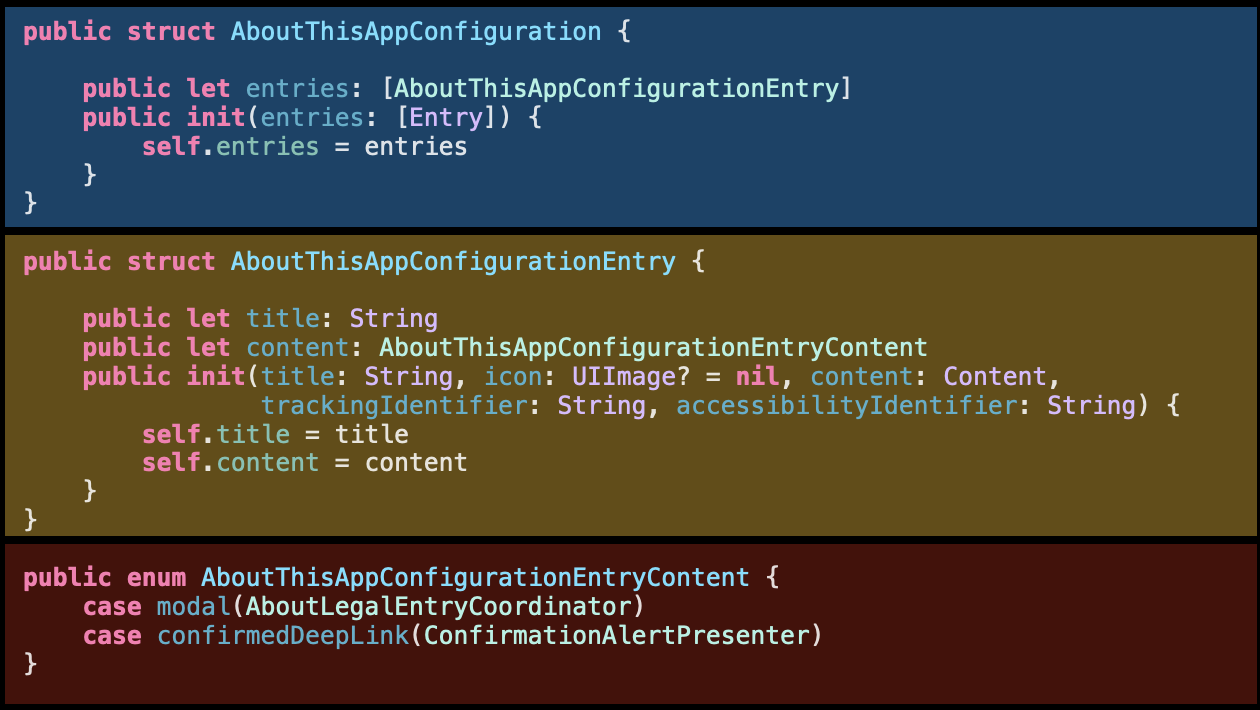
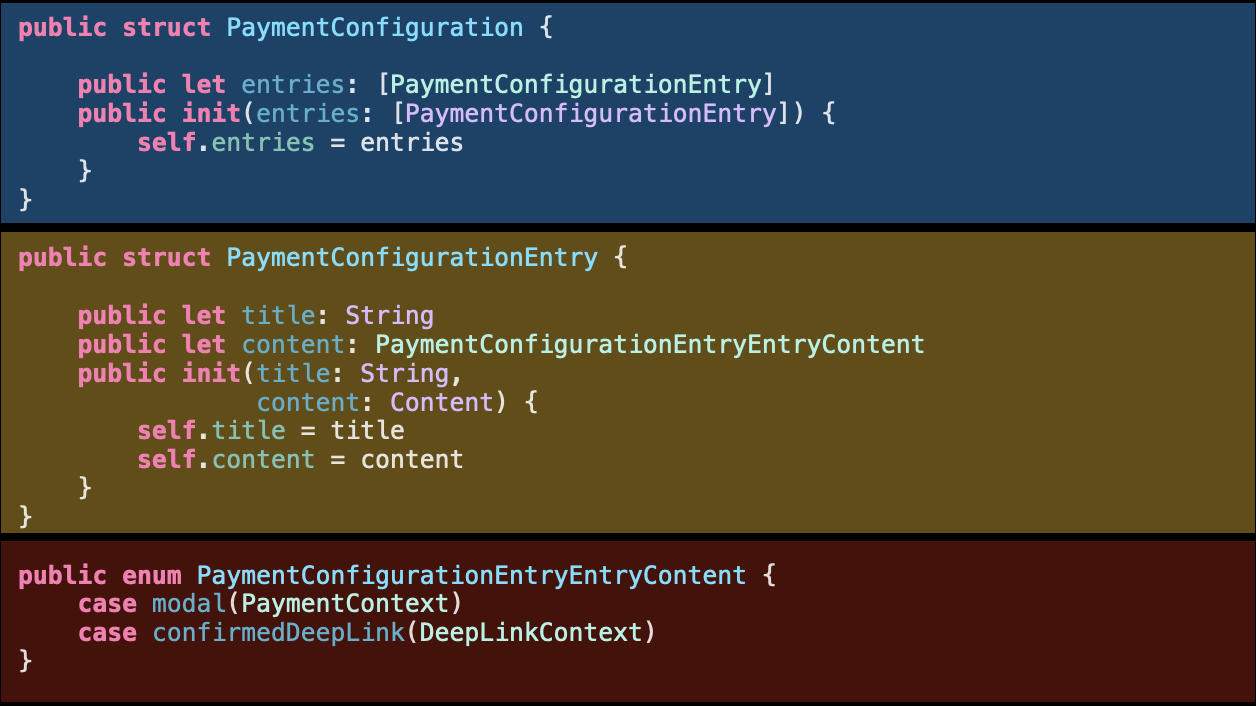
complexity-1 code samples corrected

diff --git a/_posts/2025-04-14-complexity-1-decisions-in-code.md b/_posts/2025-04-14-complexity-1-decisions-in-code.md
@@ -115,23 +115,23 @@ It's usually considered that when a function has more than two or three returns,
 ### Nesting level
 
 Nesting level is something we can fully control as developers.
-In the following example we have 3 levels of nested types: About This App Configuration, Entry, and Content.
+In the following example we have 3 levels of nested types: PaymentConfiguration, Entry, and Content.
 
 ```swift
-public struct AboutThisAppConfiguration {
+public struct PaymentConfiguration {
     
     public struct Entry {
         
         public enum Content {
-            case modal(AboutLegalEntryCoordinator)
-            case confirmedDeepLink(ConfirmationAlertPresenter)
+            case modal(PaymentContext)
+            case deepLink(DeepLinkContext)
         }
                 
         public let title: String
         public let content: Content
         
-        public init(title: String, icon: UIImage? = nil, content: Content,
-                    trackingIdentifier: String, accessibilityIdentifier: String) {
+        public init(title: String, 
+                    content: Content) {
             self.title = title
             self.content = content
         }
@@ -144,35 +144,35 @@ public struct AboutThisAppConfiguration {
     }
 }
 ```
-The cognitive load of such solution high as for each nested structure you need to keep the context of its parent (or even grandparent) in mind. You deal with the `Content`, but you will likely need to consider `Entry` and maybe even `AboutThisAppConfiguration` for the full context. The cognitive contexts of them overlap:
+The cognitive load of such solution high as for each nested structure you need to keep the context of its parent (or even grandparent) in mind. You deal with the `Content`, but you will likely need to consider `Entry` and maybe even `PaymentConfiguration` for the full context. The cognitive contexts of them overlap:
 
 ![](/images-posts/2025-04-14-complexity-1-decisions-in-code/context-overlap.png)
 
  So in this case it’s probably easier to split them into a separate data types, even if it looks more verbose in terms of naming.
 
 ```swift
-public struct AboutThisAppConfiguration {
+public struct PaymentConfiguration {
         
-    public let entries: [AboutThisAppConfigurationEntry]
-    public init(entries: [Entry]) {
+    public let entries: [PaymentConfigurationEntry]
+    public init(entries: [PaymentConfigurationEntry]) {
         self.entries = entries
     }
 }
 
-public struct AboutThisAppConfigurationEntry {
+public struct PaymentConfigurationEntry {
             
     public let title: String
-    public let content: AboutThisAppConfigurationEntryContent
-    public init(title: String, icon: UIImage? = nil, content: Content,
-                trackingIdentifier: String, accessibilityIdentifier: String) {
+    public let content: PaymentConfigurationEntryEntryContent
+    public init(title: String,
+                content: Content) {
         self.title = title
         self.content = content
     }
 }
 
-public enum AboutThisAppConfigurationEntryContent {
-    case modal(AboutLegalEntryCoordinator)
-    case confirmedDeepLink(ConfirmationAlertPresenter)
+public enum PaymentConfigurationEntryEntryContent {
+    case modal(PaymentContext)
+    case confirmedDeepLink(DeepLinkContext)
 }
 ```
 
@@ -194,8 +194,8 @@ public enum AccessibilityIdentifiers {
         
         public enum Legal {
             public static var view = "view"
-            public static var terms = "legalTermsconditionsEntry"
-            public static var copyrights = "legalCopyrightsEntry"
+            public static var terms = "legal"
+            public static var copyrights = "copyrights"
             
             public enum Copyrights {
                 public static var view = "view"
@@ -221,23 +221,23 @@ One way to address this is by grouping related parameters into meaningful data s
 _More complex:_
 
 ```swift
-public func trackFormStep(formId: String,
-                          formStep: String,
-                          formStatus: String,
-                          transactionId: String?,
-                          formOutcome: String?,
-                          formType: String?) {
+public func trackEvent(formId: String,
+                       formStep: String,
+                       formStatus: String,
+                       transactionId: String?,
+                       formOutcome: String?,
+                       formType: String?) {
     ...
 }
 ```
 _Less complex:_
 
 ```swift
-public func trackFormStep(content: FormStepTrackingContent) {
+public func trackEvent(content: EventContent) {
     ...
 }
     
-public struct FormStepTrackingContent: Equatable, Sendable {
+public struct EventContent: Equatable, Sendable {
     public let formId: String
     public let formStep: String
     public let formStatus: String
@@ -256,12 +256,11 @@ In other cases, if a function is doing too much and therefore needs too much con
 Complex conditions may be completely unreadable:
 
 ```swift
-if (featureToggles.toggle(for: .inAppReview) == .enabled &&
-    (numberOfLaunchesSinceLastPrompted >= 
-          configuration.minimumRequiredLaunches) ||
-    (dateProvider() >= nextPromptDate &&
-   applicationVersion != latestVersionPromptedForReview)) {
-    attemptToShowNativeRating(in: windowScene, completion: completion)
+if (yourFeatureToggleState == .enabled &&
+    (numberOfLaunches >= configuration.minimumRequiredLaunches) ||
+    (currentDate >= nextPromptDate &&
+    applicationVersion != latestVersionWithAlert)) {
+    attemptToShowAlert(in: window, completion: completion)
 }
 ```
 
@@ -269,11 +268,10 @@ A better approach: break them into logical steps, assign parts to descriptive bo
 
 
 ```swift
-let featureIsActive = featureToggles.toggle(for: .inAppReview) == .enabled
-let enoughLaunches = numberOfLaunchesSinceLastPrompted >= 
-configuration.minimumRequiredLaunches
-let dateVersionConditionMet = (dateProvider() >= nextPromptDate && 
-applicationVersion != latestVersionPromptedForReview)
+let featureIsActive = yourFeatureToggleState == .enabled
+let enoughLaunches = numberOfLaunches >= configuration.minimumRequiredLaunches
+let dateVersionConditionMet = (currentDate >= nextPromptDate &&
+    applicationVersion != latestVersionWithAlert)
 
 
 if featureIsActive && (enoughLaunches || dateVersionConditionMet) {
@@ -291,19 +289,19 @@ _More complex:_
 if cardIds.count > 1 {
     cardDismissHandler()
 } else {
-    if insightsWidgetViewController != nil {
+    if viewController != nil {
         cardDismissHandler()
     }
-    insightsWidgetCoordinatorDelegate?.dismissWidget(at: insightsLocation)
+    delegate?.dismissViewController(at: location)
 }
 ```
 _Less complex:_
 
 ```swift
-if cardIds.count > 1 || insightsWidgetViewController != nil {
+if cardIds.count > 1 || viewController != nil {
     cardDismissHandler()
 } else {
-    insightsWidgetCoordinatorDelegate?.dismissWidget(at: insightsLocation)
+    delegate?.dismissViewController(at: location)
 }
 ```
 
@@ -313,7 +311,7 @@ _More complex:_
 
 ```swift
 if let cardId {
-    if let element = interaction.element(for: insightsLocation,
+    if let element = interaction.element(for: location,
                                          cardId: cardId) else {
         return
     }
